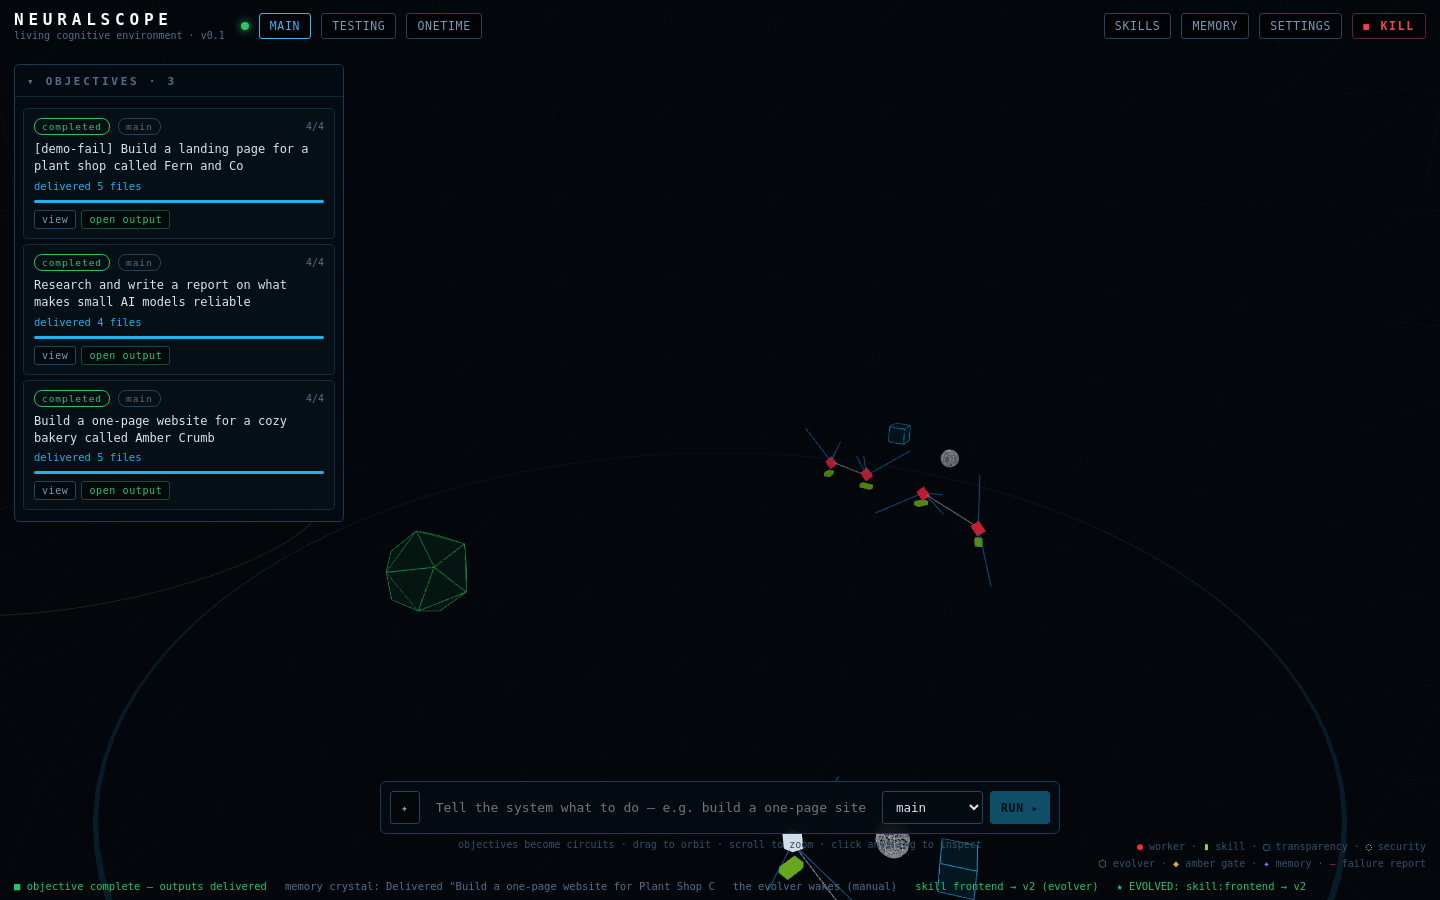
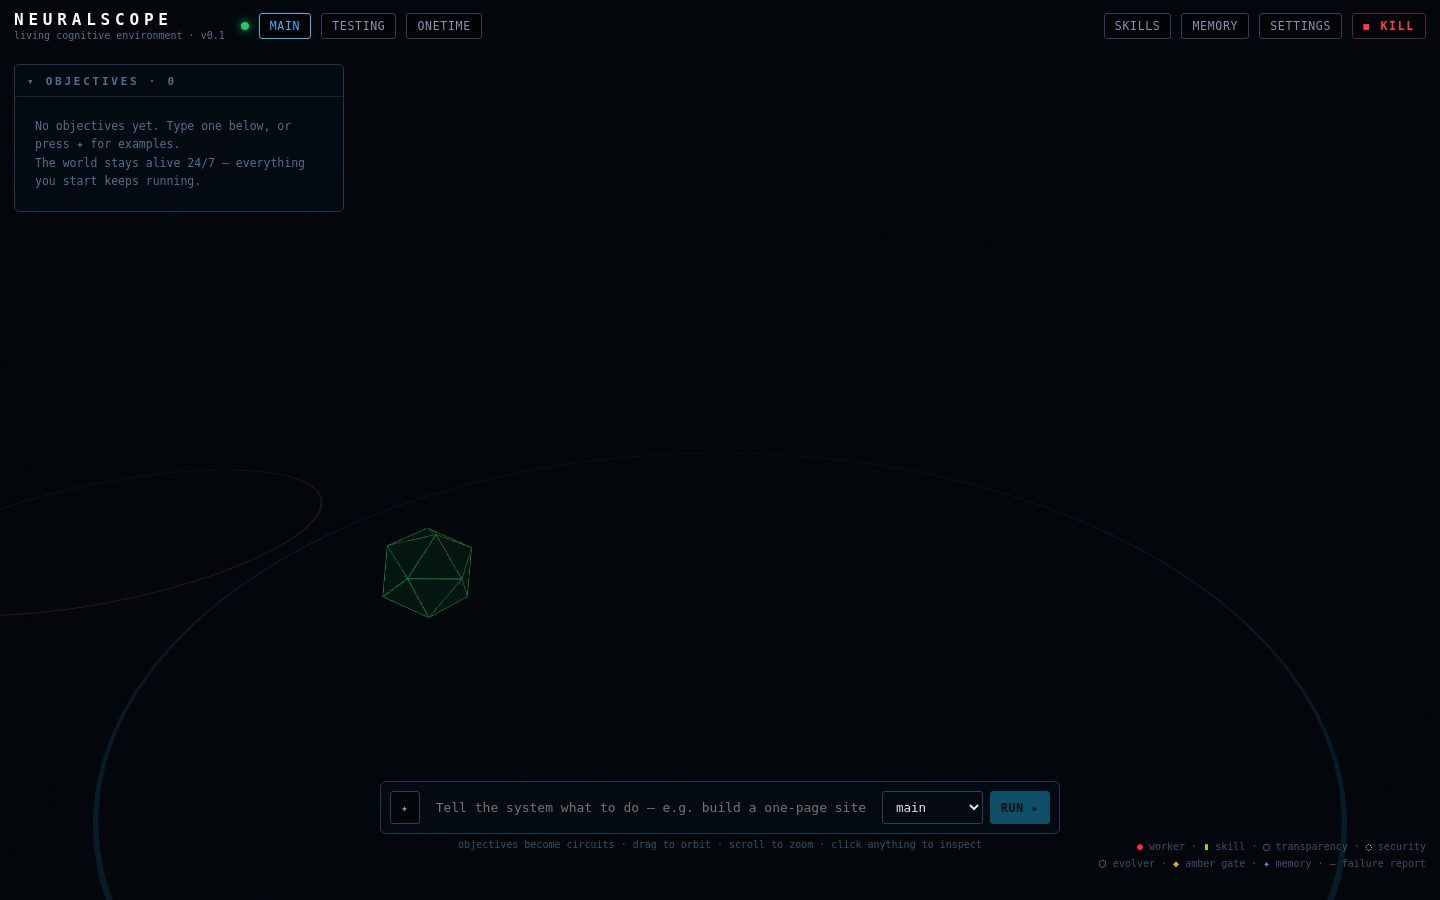
security pass: close SSRF redirect bypass; harden path containment; assert both
Security audit of the connector surface (no base branch to diff — whole repo
built this session, so audited directly):

- web connector SSRF: tierFor blocked private/loopback ranges on the proposed
  URL, but invoke() used redirect:'follow', so an allow-listed or approved URL
  could 30x-redirect to 127.0.0.1, 169.254.169.254 (cloud metadata), or any
  internal host. Now follows redirects manually and re-applies the private-
  range block on EVERY hop (bounded to 5); also widened the block to cover
  0.0.0.0, ::1, 127/8, 169.254/16, .internal, and IPv6 ULA/link-local.
- filesystem: replaced the convoluted (and partly dead) .. check with the
  sound containment guard alone — resolve against the workspace root and
  require the result stay inside it — plus an explicit null-byte reject.

Both are now permanently regression-tested in smoke.mjs: a local 302→loopback
SSRF attempt is refused at ring-1, five path-escape shapes (.., absolute,
backslash, a/../../b, null-byte) are all blocked, and a canary API key is
shown never to appear in the snapshot or the black box. 16 assertions green;
typecheck + layer rules clean; packaged AppImage booted under xvfb and driven
through failure→recovery→evolution→blob-fetch identically to the dev build.

diff --git a/engine/src/connectors/web.ts b/engine/src/connectors/web.ts
@@ -2,11 +2,19 @@
  * Web gate — read-only HTTP GET against an allow-list of domains (settings).
  * Allow-listed GET: Tier A. Any other domain: Tier C (human approval).
  * POST or any mutating verb: not exposed in v1 at all.
+ *
+ * SSRF posture: the private/loopback block is enforced on EVERY hop, not just
+ * the URL the worker proposed. Redirects are followed manually so a public,
+ * approved URL cannot 30x its way to 127.0.0.1, a cloud metadata endpoint,
+ * or any internal host. (DNS rebinding — a hostname that resolves public at
+ * check time and private at fetch time — is a known residual; closing it
+ * needs IP pinning and is tracked for a later pass.)
  */
 import { Connector, ConnectorHealth, ToolCall, ToolResult, Tier } from './types.js';
 
 const MAX_BODY = 600_000;
 const TIMEOUT_MS = 15_000;
+const MAX_REDIRECTS = 5;
 
 export class WebConnector implements Connector {
   name = 'web';
@@ -28,29 +36,52 @@ export class WebConnector implements Connector {
     } catch { return null; }
   }
 
+  /** Hosts that must never be reachable from worker context — checked on the
+   *  initial URL AND on every redirect hop. */
+  private isPrivate(host: string): boolean {
+    return host === 'localhost' || host === '127.0.0.1' || host === '0.0.0.0' ||
+      host === '::1' || host.endsWith('.local') || host.endsWith('.internal') ||
+      /^(10\.|127\.|169\.254\.|172\.(1[6-9]|2\d|3[01])\.|192\.168\.)/.test(host) ||
+      /^(fc|fd|fe80)/i.test(host);   // unique-local / link-local IPv6
+  }
+
   tierFor(call: ToolCall): Tier | 'blocked' {
     if (call.tool !== 'fetch') return 'blocked';
     const host = this.hostOf(call.args.url);
     if (!host) return 'blocked';
-    // private/loopback ranges are never fetchable from worker context
-    if (host === 'localhost' || host === '127.0.0.1' || host.endsWith('.local') ||
-        /^(10\.|172\.(1[6-9]|2\d|3[01])\.|192\.168\.)/.test(host)) return 'blocked';
+    if (this.isPrivate(host)) return 'blocked';
     const allowed = this.getAllowlist().some(d => host === d || host.endsWith(`.${d}`));
     return allowed ? 'A' : 'C';
   }
 
   async invoke(call: ToolCall): Promise<ToolResult> {
     if (call.tool !== 'fetch') return { ok: false, error: `unknown tool: ${call.tool}` };
-    const url = String(call.args.url ?? '');
+    let url = String(call.args.url ?? '');
     try {
       const ctrl = new AbortController();
       const t = setTimeout(() => ctrl.abort(), TIMEOUT_MS);
-      const res = await fetch(url, {
-        signal: ctrl.signal,
-        redirect: 'follow',
-        headers: { 'user-agent': 'NeuralScope/0.1 (+local research agent)' },
-      });
-      clearTimeout(t);
+      let res: Response;
+      try {
+        // follow redirects by hand so the private-range block applies to every hop
+        for (let hop = 0; ; hop++) {
+          const host = this.hostOf(url);
+          if (!host) return { ok: false, error: 'invalid or non-http(s) URL' };
+          if (this.isPrivate(host)) return { ok: false, error: `blocked: redirect/target resolves to a private address (${host})` };
+          res = await fetch(url, {
+            signal: ctrl.signal,
+            redirect: 'manual',
+            headers: { 'user-agent': 'NeuralScope/0.1 (+local research agent)' },
+          });
+          if (res.status >= 300 && res.status < 400 && res.headers.get('location')) {
+            if (hop >= MAX_REDIRECTS) return { ok: false, error: 'too many redirects' };
+            url = new URL(res.headers.get('location')!, url).toString();
+            continue;
+          }
+          break;
+        }
+      } finally {
+        clearTimeout(t);
+      }
       const text = (await res.text()).slice(0, MAX_BODY);
       // crude readable-text extraction; workers get content, not live DOM
       const stripped = text

diff --git a/engine/src/connectors/filesystem.ts b/engine/src/connectors/filesystem.ts
@@ -20,17 +20,17 @@ export class FilesystemConnector implements Connector {
   async health(): Promise<ConnectorHealth> { return { ok: true }; }
 
   /** Resolve a model-supplied relative path safely inside the workspace.
-   *  Rejects absolute paths, drive letters and any `..` escape. */
+   *  The real guard is containment: resolve against the workspace and confirm
+   *  the result stays inside it — that defeats `..`, absolute paths and odd
+   *  separators alike. The early rejects are fast, clear fences before it. */
   resolveSafe(workspace: string, rel: unknown): string | null {
     if (typeof rel !== 'string' || rel.length === 0 || rel.length > 512) return null;
+    if (rel.includes('\0')) return null;                       // null-byte truncation
     if (path.isAbsolute(rel) || /^[a-zA-Z]:[\\/]/.test(rel)) return null;
     const cleaned = rel.replace(/\\/g, '/');
-    if (cleaned.split('/').some(part => part === '..' || part === '')) {
-      if (cleaned.includes('..')) return null;
-    }
-    const abs = path.resolve(workspace, cleaned);
-    const wsResolved = path.resolve(workspace) + path.sep;
-    if (!abs.startsWith(wsResolved) && abs !== path.resolve(workspace)) return null;
+    const root = path.resolve(workspace);
+    const abs = path.resolve(root, cleaned);
+    if (abs !== root && !abs.startsWith(root + path.sep)) return null;  // containment
     return abs;
   }
 
